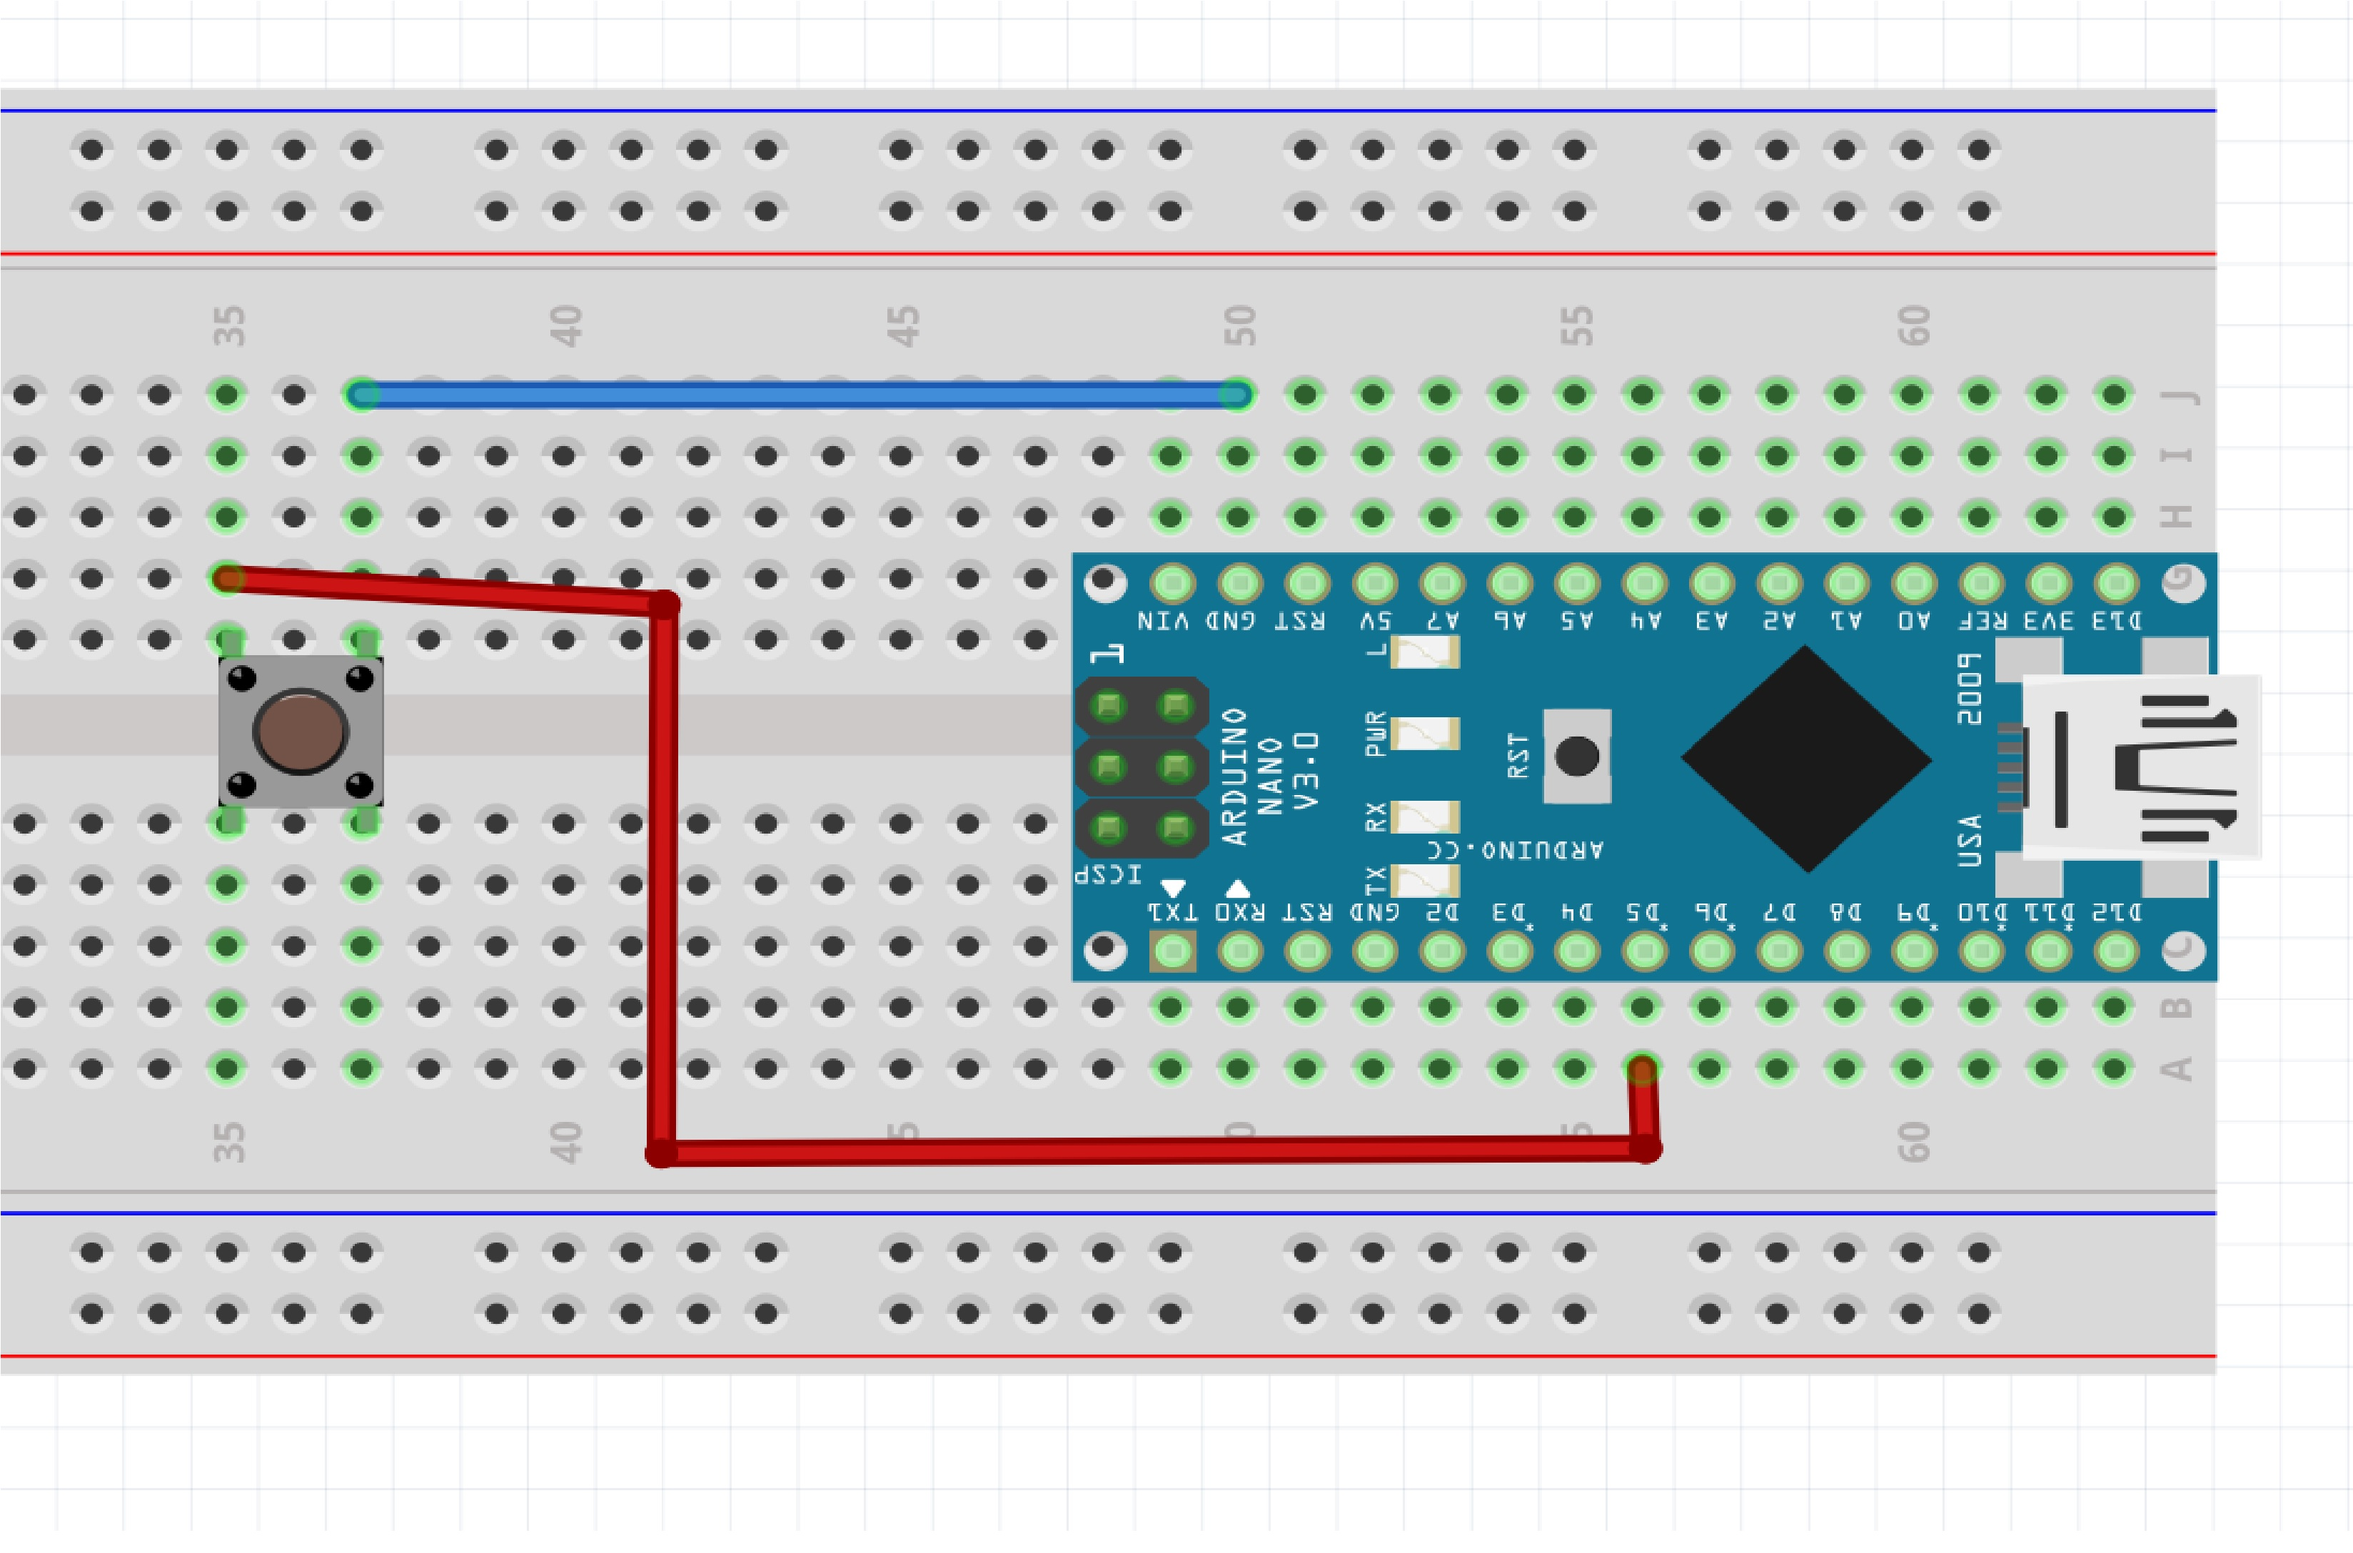
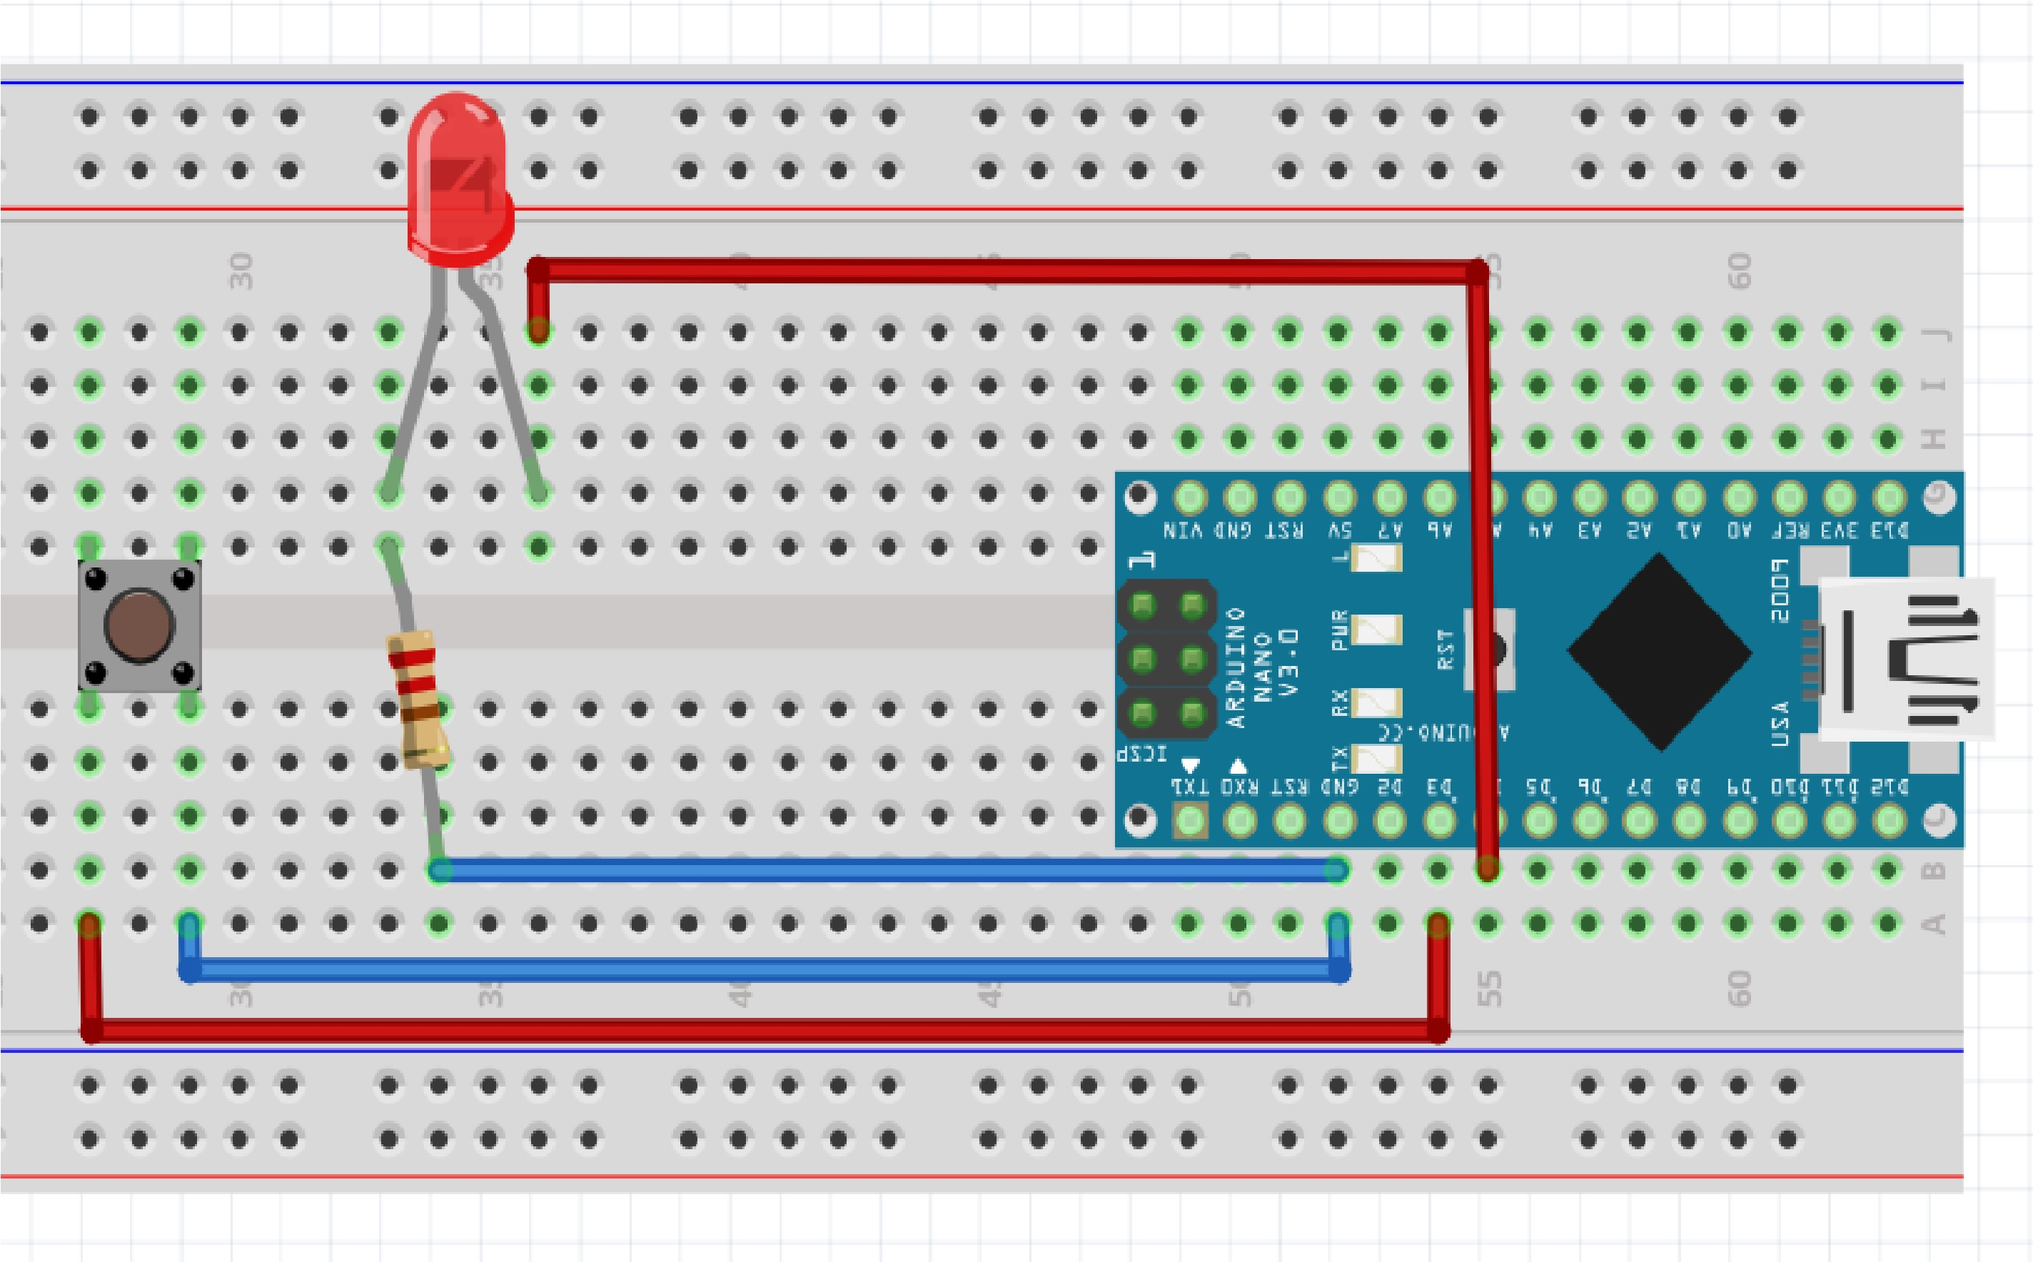
Add led

diff --git a/README.md b/README.md
@@ -1,7 +1,9 @@
 # Arduino
-При нажатии на кнопку загорается встроенный красный светодиод.
+При нажатии на кнопку загорается внешний светодиод.
 
 Подключается в usb
+
+Для Светодиода используется ризистор 220 Ом
 
 ## Image
 
